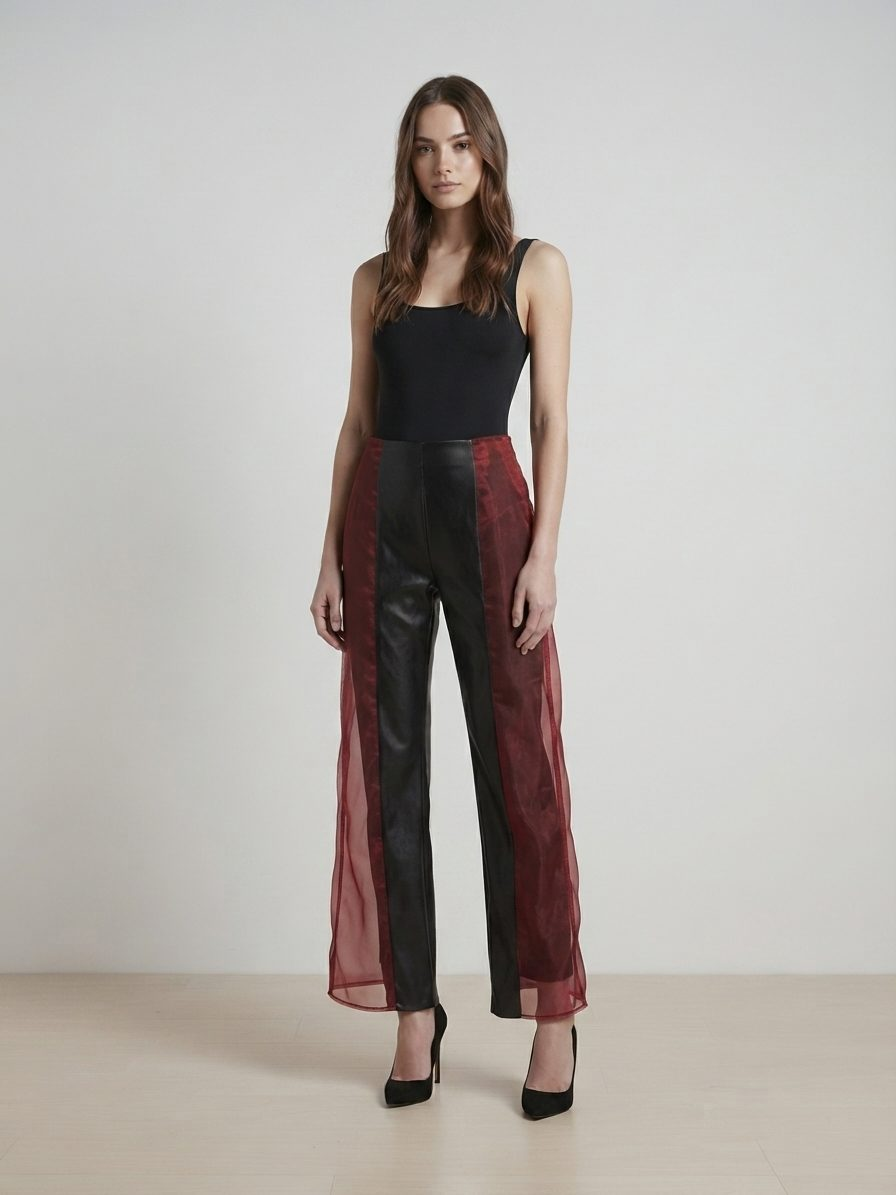
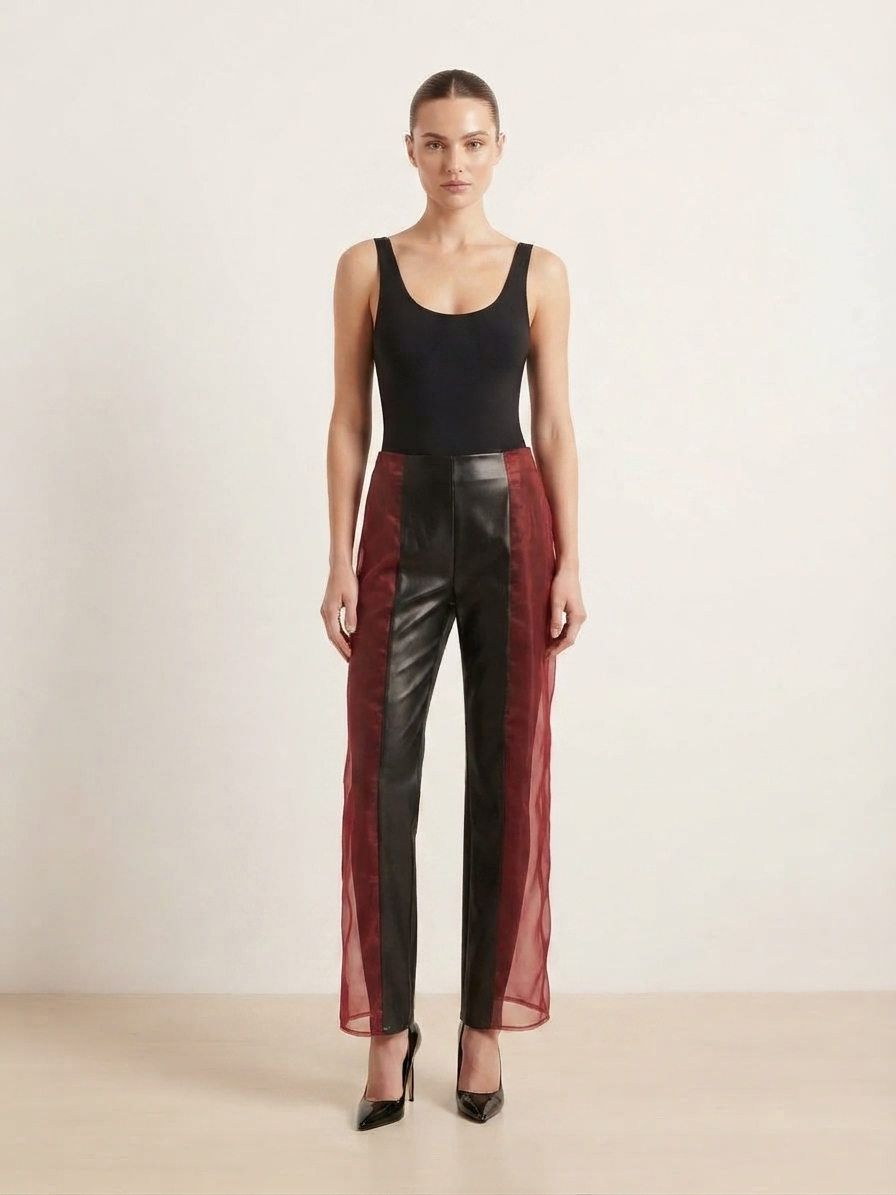
content: update info in lib/creations.ts

diff --git a/lib/creations.ts b/lib/creations.ts
@@ -170,22 +170,30 @@ const vetements: Creation[] = [
     {
         slug: "pant-corset",
         cat: "vetement",
-        title: "Pantalon Corset", // À COMPLÉTER
-        meta: "Pièce unique", // À COMPLÉTER
-        desc: "À compléter — décris cette pièce ici.", // À COMPLÉTER
-        badge: "Sur commande", // À COMPLÉTER
+        title: "Pantalon Corset - 133,75 €",
+        meta: "Pièce unique",
+        desc: "Jersey noir.\nPolyester élasthane - carreaux coloré",
+        size: "Taille 38/40",
+        price: "Modèle = 90 €.\nMatières = 43,75 €",
+        badge: "Sur commande",
         cardImage: { src: `${V}/model/pantCorset.jpg`, alt: "Pantalon Corset, porté" },
-        modalImages: [{ src: `${V}/buste/pantCorsetB.jpg`, alt: "Pantalon Corset, sur buste" }],
+        modalImages: [
+            { src: `${V}/buste/pantCorsetB.jpg`, alt: "Pantalon Corset, sur buste" },
+            { src: `${V}/model/pantCorset.jpg`, alt: "Pantalon Corset, porté" }],
     },
     {
         slug: "pant-valy",
         cat: "vetement",
-        title: "Pantalon Valy", // À COMPLÉTER
-        meta: "Pièce unique", // À COMPLÉTER
-        desc: "À compléter — décris cette pièce ici.", // À COMPLÉTER
-        badge: "Sur commande", // À COMPLÉTER
+        title: "Pantalon Valy - 192,80 €",
+        meta: "Pièce unique",
+        desc: "Simili cuir noir.\nVoile rouge pourpre",
+        size: "Taille 38",
+        price: "Modèle = 140 €.\nMatières = 52,80 €",
+        badge: "Sur commande",
         cardImage: { src: `${V}/model/pantValy.jpg`, alt: "Pantalon Valy, porté" },
-        modalImages: [{ src: `${V}/buste/pantValyB.jpg`, alt: "Pantalon Valy, sur buste" }],
+        modalImages: [
+            { src: `${V}/buste/pantValyB.jpg`, alt: "Pantalon Valy, sur buste" },
+            { src: `${V}/model/pantValy.jpg`, alt: "Pantalon Valy, porté" }],
     },
     {
         slug: "reverse-01",
@@ -276,12 +284,16 @@ const vetements: Creation[] = [
     {
         slug: "tri-jupe",
         cat: "vetement",
-        title: "Tri-Jupe - ",
+        title: "Jupe de 3 - 268 €",
         meta: "Pièce unique",
-        desc: "DESCRIPTION A FAIRE",
+        desc: "Suédine crème.\nCrèpe blanc.\nVoile bordeaux - motif fleurs et or",
+        size: "Taille 38",
+        price: "Modèle = 220 €.\nMatières = 48 €",
         badge: "Sur commande",
         cardImage: { src: `${V}/model/triJupe.jpg`, alt: "Tri-Jupe Franges, portée" },
-        modalImages: [{ src: `${V}/buste/triJupeB.jpg`, alt: "Tri-Jupe Franges, sur buste" }],
+        modalImages: [
+            { src: `${V}/buste/triJupeB.jpg`, alt: "Tri-Jupe Franges, sur buste" },
+            { src: `${V}/model/triJupe.jpg`, alt: "Tri-Jupe Franges, portée" }],
     },
     {
         slug: "veste-chine",
